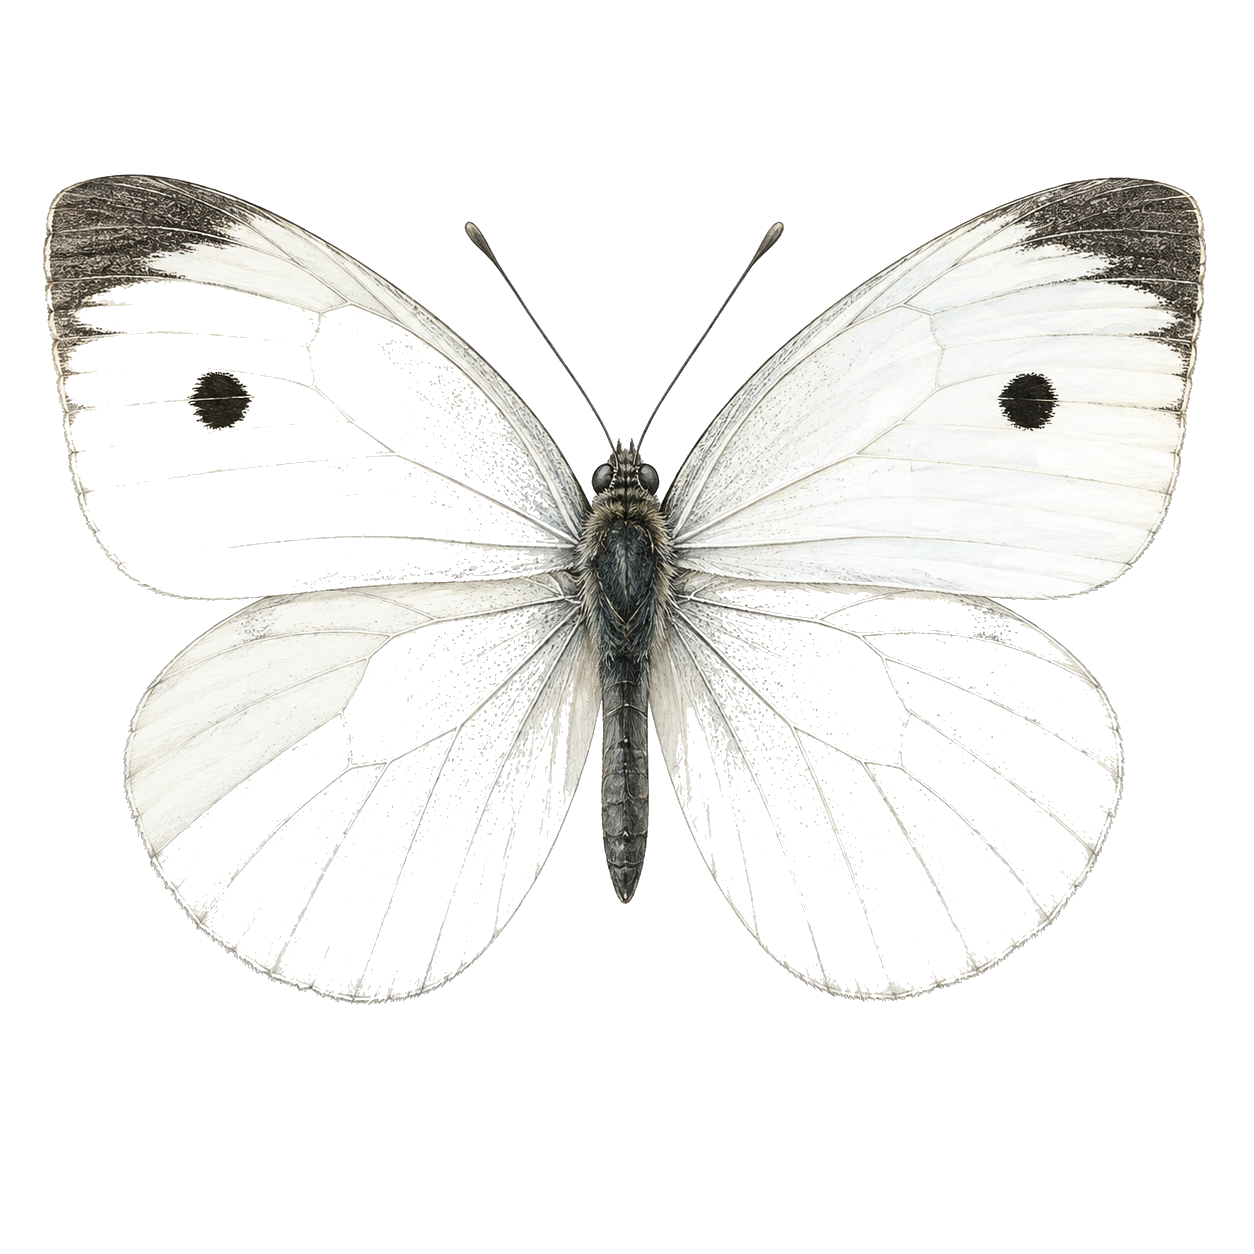
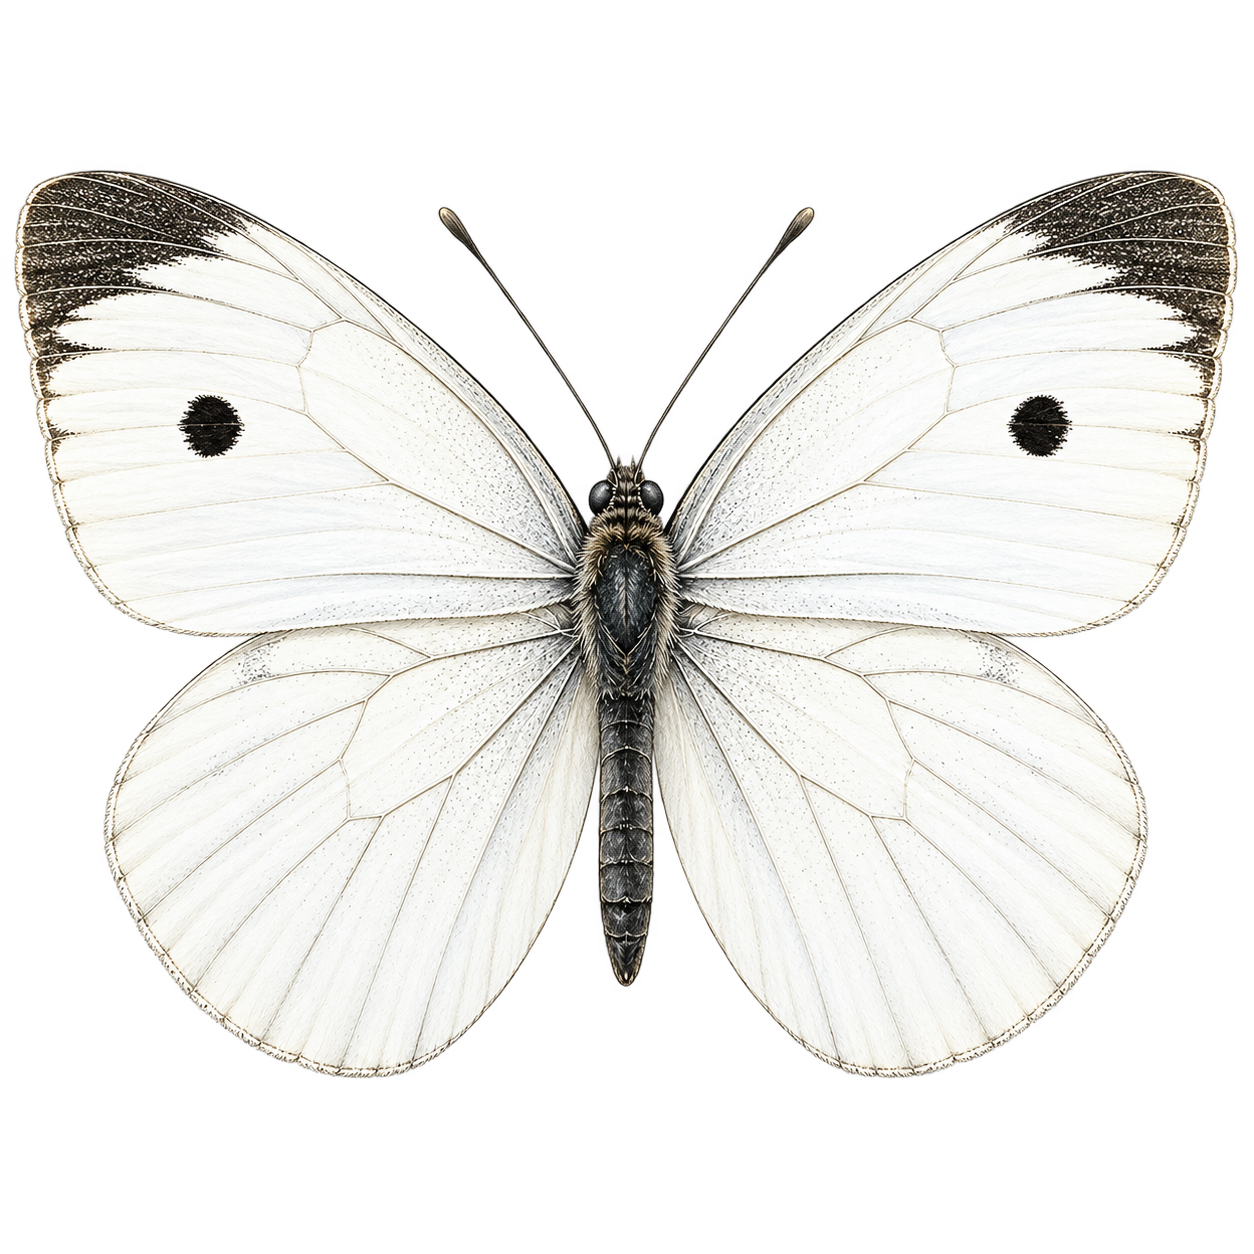
fix: preserve white wings in monshirochou quiz art

diff --git a/tests/test_first_konchuu_games.py b/tests/test_first_konchuu_games.py
@@ -22,6 +22,16 @@ def test_ready_insects_have_both_game_images():
             assert image.convert("RGBA").getpixel((0, 0))[3] == 0
 
 
+def test_monshirochou_white_wings_remain_opaque():
+    for directory in (
+        ROOT / "assets" / "images" / "konchuu" / "zukan",
+        ROOT / "assets" / "images" / "konchuu" / "quiz",
+    ):
+        with Image.open(directory / "monshirochou.png") as image:
+            # 左の白い羽の中心。背景だけを透明にし、羽は消さない。
+            assert image.convert("RGBA").getpixel((300, 400))[3] >= 245
+
+
 def test_ready_insects_work_in_quiz_zukan_and_search():
     quiz = create_quiz_session(ITEMS, 5, random.Random(2))
     assert all(question.answer.key in question.choice_keys for question in quiz.questions)
